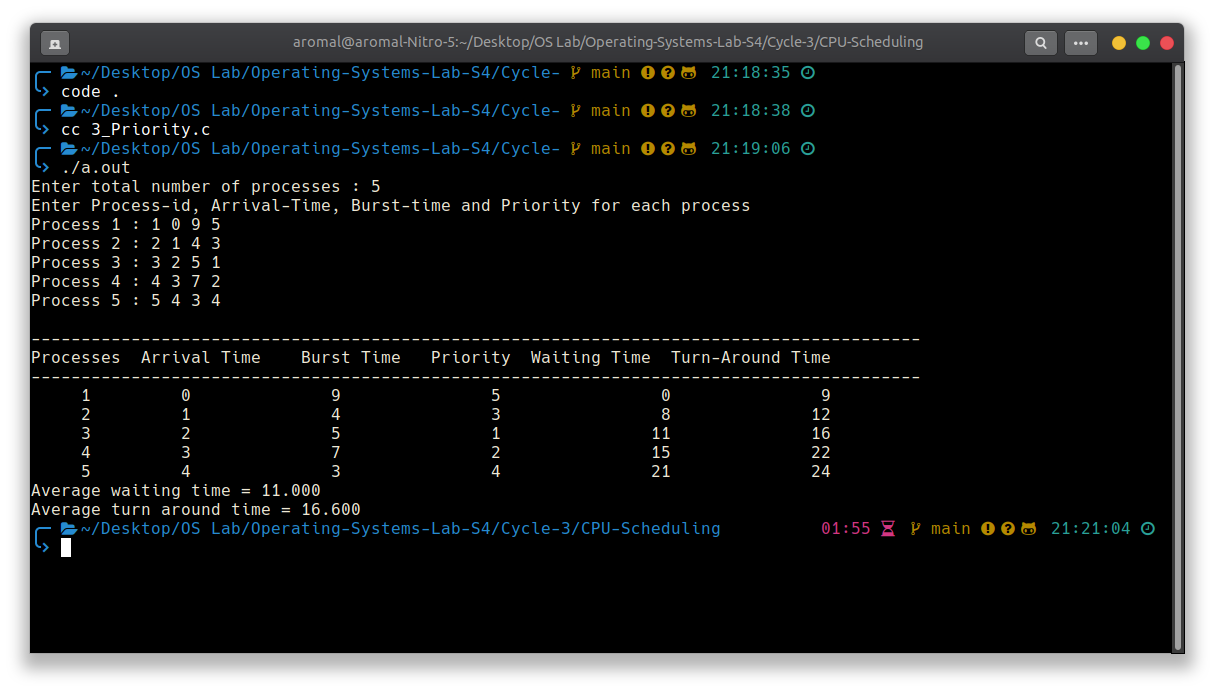
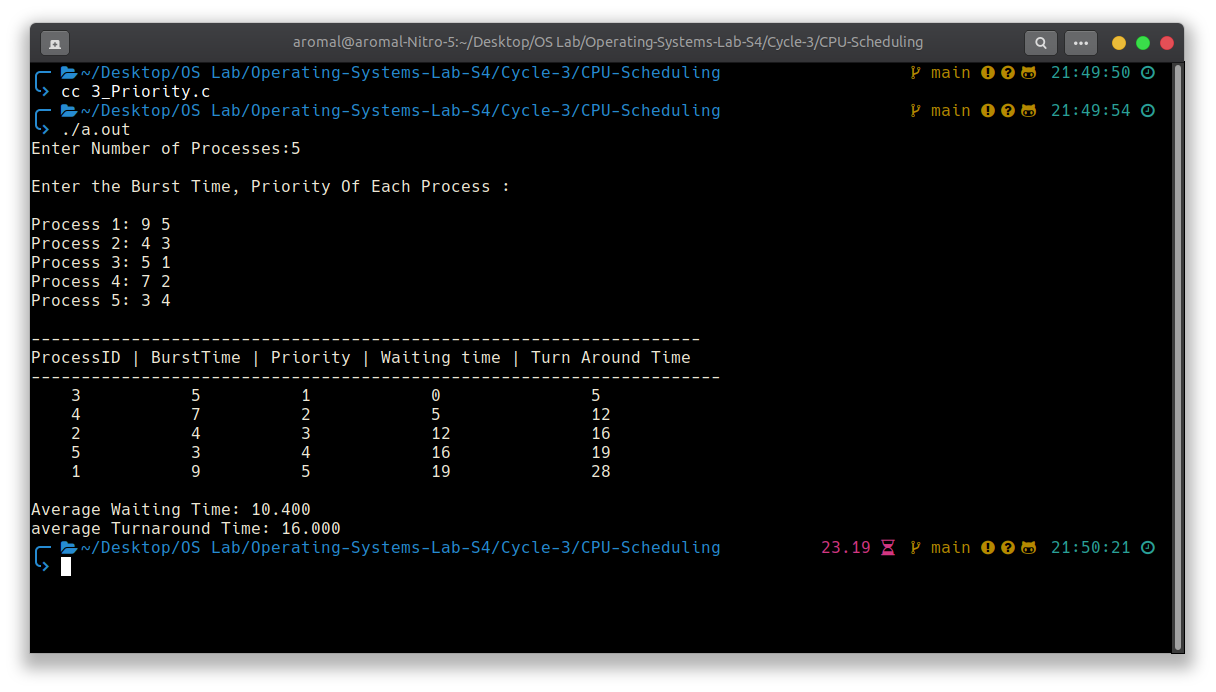
Update Priority Scheduling

diff --git a/Cycle-3/CPU-Scheduling/3_Priority.c b/Cycle-3/CPU-Scheduling/3_Priority.c
@@ -1,123 +1,87 @@
 /* 
-    Priority scheduling with different arrival time-nonpreemptive
+    Non Premptive Priority Scheduling
 */
 
-#include<stdio.h>
-#include<stdlib.h>
+#include <stdio.h>
 
-struct process
-{
-    int pid;
+int i, j, n;
+float tatAvg, wtAvg;
+
+struct Process {
+    int pId;
     int bt;
-    int at;
-    int ct;
-    int wt;
-    int tat;
     int priority;
 };
 
-int main()
-{
-    int i,j,n,total_wt=0,total_tat=0;
-    float avg_wt,avg_tat;
-
-    printf("Enter total number of processes : ");
-    scanf("%d",&n);
-    struct process proc[n],temp;
-    printf("Enter Process-id, Arrival-Time, Burst-time and Priority for each process\n");
-
-    for(i=0; i<n; i++)
+void read(struct Process p[]) {
+    printf("\n");
+    printf("Enter the Burst Time, Priority Of Each Process :\n");
+    printf("\n");
+    for (i = 0; i < n; ++i) 
     {
-        printf("Process %d : ",i+1);
-        scanf("%d %d %d %d",&proc[i].pid,&proc[i].at,&proc[i].bt,&proc[i].priority);
+        p[i].pId = i + 1;
+        printf("Process %d: ", p[i].pId);
+        scanf("%d %d", &p[i].bt, &p[i].priority);
+
     }
+}
 
-    for(i=0; i<n-1; i++)
-    {
-        for(j=i+1; j<n; j++)
-        {
-            //first sorting according to arrival time
-            if(proc[i].at > proc[j].at)
-            {
-                temp = proc[i];
-                proc[i] = proc[j];
-                proc[j] = temp;
-            }
-            //if arrival-time is same
-            if(proc[i].at == proc[j].at)
-            {
-                //then sort according to priority
-                if(proc[i].priority > proc[j].priority)
-                {
-                    temp = proc[i];
-                    proc[i] = proc[j];
-                    proc[j] = temp;
-                }
-                //if priority is also same
-            }
-            if(proc[i].at == proc[j].at && proc[i].priority == proc[j].priority)
-            {
-                if(proc[i].pid > proc[j].pid)
-                {
-                    temp = proc[i];
-                    proc[i] = proc[j];
-                    proc[j] = temp;
-                }
-            }
+void display(struct Process p[], int wt[], int tat[]) {
+    printf("\n-------------------------------------------------------------------");
+    printf("\nProcessID | BurstTime | Priority | Waiting time | Turn Around Time\n");
+    printf("---------------------------------------------------------------------\n");
+    for (i = 0; i < n; ++i) {
+        printf("%5d\t\t%d\t%4d\t\t%d\t\t%d\n", p[i].pId, p[i].bt, p[i].priority, wt[i], tat[i]);
+    }
+    printf("\nAverage Waiting Time: %.3f", wtAvg);
+    printf("\naverage Turnaround Time: %.3f", tatAvg);
+    printf("\n");
+}
 
+void sort(struct Process p[]) {
+    struct Process temp;
+    for (i = 0; i < n - 1; ++i) {
+        for (j = 0; j < n - 1 - i; ++j) {
+            if (p[j].priority > p[j + 1].priority) {
+                temp = p[j];
+                p[j] = p[j + 1];
+                p[j + 1] = temp;
+            }
         }
     }
+}
 
-    proc[0].ct = (proc[0].bt+proc[0].at);
-    for(i=1; i<n; i++)
-    {
-        proc[i].ct = proc[i-1].ct + proc[i].bt;
+void findWaitingTime(struct Process p[], int wt[]) {
+    wt[0] = 0;
+    int wtSum = 0;
+    for (i = 1; i < n; ++i) {
+        wt[i] = wt[i - 1] + p[i - 1].bt;
+        wtSum += wt[i];
     }
+    wtAvg = (float)wtSum / n;
+}
 
-    for(i=0; i<n; i++)
-    {
-        proc[i].tat = proc[i].ct - proc[i].at;
+void findTurnAroundtime(struct Process p[], int tat[], int wt[]) {
+    int tatSum = 0;
+    for (i = 0; i < n; ++i) {
+        tat[i] = p[i].bt + wt[i];
+        tatSum += tat[i];
     }
-    for(i=0; i<n; i++)
-    {
-        proc[i].wt = proc[i].tat - proc[i].bt;
-    }
+    tatAvg = (float)tatSum / n;
+}
 
-    // for(i=1; i<n; i++)
-    // {
-    //     proc[i].ct = proc[i-1].ct + proc[i].bt;
-    //     proc[i].tat = proc[i].ct - proc[i].at;
-    //     proc[i].wt = proc[i].tat - proc[i].bt;
-    // }
-
-    long int waiting_total=0,turn_around_total=0;
-
-    for(i=0;i<n;i++)
-    {
-        waiting_total += proc[i].wt;
-        turn_around_total += proc[i].tat;
-    }
-
-    float avg_waiting_time = (float)waiting_total/(float)n;
-
-    float avg_turn_around_time = (float)turn_around_total/(float)n;
-
-    //printf("Process\t\tarrival-time\t\tBurst time\t\tpriority\t\twaiting time\t\tTurn_around_time\n");
-
-
-    printf("\n-----------------------------------------------------------------------------------------");
-    printf("\nProcesses  Arrival Time    Burst Time   Priority  Waiting Time  Turn-Around Time");
-    printf("\n-----------------------------------------------------------------------------------------");
-
-
-    for(i=0; i<n; i++)
-    {
-        printf("\n%6d  %8d  %13d  %14d  %15d %15d",proc[i].pid,proc[i].at,proc[i].bt,proc[i].priority,proc[i].wt,proc[i].tat);
-    }
-
-    printf("\nAverage waiting time = %.3f\n",avg_waiting_time);
-
-    printf("Average turn around time = %.3f\n",avg_turn_around_time);
+int main()
+{
+    struct Process p[20];           /* Array object for the structure */
+    int wt[20], tat[20];
+    printf("Enter Number of Processes:");
+    scanf("%d", &n);
+    read(p);
+    sort(p);
+    findWaitingTime(p, wt);
+    findTurnAroundtime(p, tat, wt);
+    display(p, wt, tat);
 
     return 0;
-  }
+}
+
